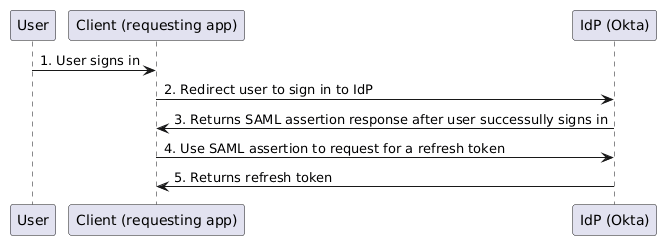
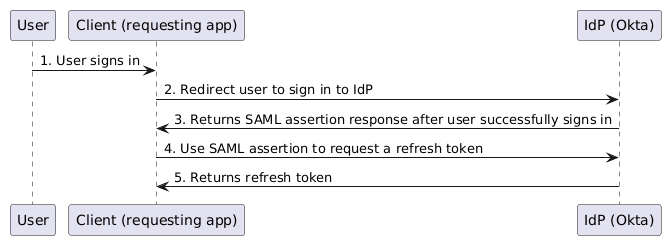
Add oidc content

diff --git a/packages/@okta/vuepress-site/docs/guides/xaa-request-token-ex/main/openidconnect/user-sso-details.md b/packages/@okta/vuepress-site/docs/guides/xaa-request-token-ex/main/openidconnect/user-sso-details.md
@@ -1,8 +1,8 @@
-In a SAML-based XAA flow, after the user is authenticated, it delegates the requesting app to interact with the IdP to obtain the refresh token necessary to perform the ID-JAG token exchange.
+In a OIDC-based XAA flow, after the user is authenticated, the IdP returns the ID token necessary to perform the ID-JAG token exchange.
 
 <div class="three-quarters">
 
-   ![XAA token exchange flow](/img/guides/xaa/xaa-saml-sso.png)
+   ![XAA token exchange flow](/img/guides/xaa/xaa-oidc-sso.png)
 
    </div>
     <!--
@@ -13,75 +13,24 @@ In a SAML-based XAA flow, after the user is authenticated, it delegates the requ
     participant OAS as "IdP (Okta)"
     User -> WebApp: 1. User signs in
     WebApp -> OAS: 2. Redirect user to sign in to IdP
-    OAS -> WebApp: 3. Returns SAML assertion response after user successully signs in
-    WebApp -> OAS: 4. Use SAML assertion to request for a refresh token
-    OAS -> WebApp: 5. Returns refresh token
+    OAS -> WebApp: 3. Returns ID token after user successfully signs in
     @enduml
     -->
 
-1. When a user signs into your federated app.
+1. User signs into your OIDC agentic app.
 
-1. Your app uses SAML and redirects the user to the IdP for SSO. As a prerequisite for this to happen, your app has to integrate and register with the IdP with SAML SSO. See [SAML concept](/docs/concepts/saml/) and [SAML app integrations](https://help.okta.com/okta_help.htm?id=ext-apps-about-saml) in the product documentation for details.
+1. Your agentic app redirects the user to the IdP for SSO. As a prerequisite for this to happen, your app has to integrate and register OIDC SSO with the IdP (Okta). See [Create OpenID Connect app integrations](https://help.okta.com/okta_help.htm?type=oie&id=ext_Apps_App_Integration_Wizard-oidc) in the product documentation for details.
 
-1. After the user is authenticated, the IdP returns the users's SAML assertion response (`<SAMLResponse>`) to your requesting app. Save this base64-encoded SAML response as `{SAMLReponse}` for the refresh token exchange.
+   > **Note:** If you want to also receive a refresh token, ensure that your agentic OIDC app integration is configured to return the refresh token in Okta (include the `offline_access` scope).
 
-1. Use the SAML assertion to exchange for a refresh token from your Okta org's [OAuth 2.0 token endpoint](https://developer.okta.com/docs/api/openapi/okta-oauth/oauth/orgas/token). This exchange follows the [OAuth 2.0 Token Exchange (RFC 8693)](https://datatracker.ietf.org/doc/html/rfc8693) specification.
-
-   Add code to your app to handle the token exchange:
-
-   1. Create a client assertion JWT (`{client_assertion}`) for the token exchange payload. This assertion is in `private_key_jwt` form and informs the IdP who the client is. Specify the following claims in your JWT payload:
-      [[style="list-style-type:lower-alpha"]]
-
-      | Claim    | Type    | Description                                                  |
-      |----------|---------|--------------------------------------------------------------|
-      | `aud`    | String  | Set to `https://{yourOktaDomain}/oauth2/v1/token` (Okta's token exchange endpoint). This is the full URL of the resource that you're trying to access using the JWT to authenticate.  |
-      | `iss`    | String  | Set to `{clientId}`. The AI agent's client ID, which is the issuer of the token. |
-      | `sub`    | String  | Set to `{clientId}`. The AI agent's client ID, which the subject of the token.  |
-      | `exp`    | Integer | The token expiration time in UNIX timestamp format. The request fails from this claim if the expiration time is more than one hour in the future or if the token is already expired. |
-      | `jti`    | String  | Optional. The unique token identifier. If you specify this parameter, the token can only be used once and, as a result, subsequent token requests don't succeed. |
-      | `iat`    | Integer | Optional. When the token was issued in UNIX timestamp format. If specified, it must be a time before the request is received. |
-
-      Sign your JWT with the private key from the AI agent (`{clientKey}`) in Okta. See [Build a JWT with a private key](https://developer.okta.com/docs/guides/build-self-signed-jwt/js/main/#build-a-jwt-with-a-private-key) for guidance on how to build your JWT with a private key.
-
-   1. Send a POST request to your Okta org's [OAuth 2.0 token endpoint](https://developer.okta.com/docs/api/openapi/okta-oauth/oauth/orgas/token) with the following parameters to obtain a refresh token.
-
-        | Parameter              | Type   | Description |
-        |------------------------|--------|-------------|
-        | `grant_type`           | String | Set to `urn:ietf:params:oauth:grant-type:token-exchange`. |
-        | `client_id`            | String | Optional. Set to `{clientId}`. This is client ID of the requesting app role, which is the AI agent in Okta. You don't need this value if you have the `client_assertion`. |
-        | `client_assertion_type`| String | Set to `urn:ietf:params:oauth:client-assertion-type:jwt-bearer`. |
-        | `client_assertion`     | String | Set to `{client_assertion}`, the signed JWT generated from the previous step. |
-        | `subject_token`        | String | Set to `{SAMLResponse}`, the base64-encoded SAML 2.0 assertion received from the IdP. |
-        | `subject_token_type`   | String | Set to `urn:ietf:params:oauth:token-type:saml2` |
-        | `requested_token_type` | String | Set to `urn:ietf:params:oauth:token-type:refresh_token` |
-        | `scope`                | String | Set to `openid offline_access` (`offline_access` is required to issue a refresh token). |
-
-        For example:
-
-        ```bash
-        POST /oauth2/v1/token HTTP/1.1
-        Host: {yourOktaDomain}
-        Content-Type: application/x-www-form-urlencoded
-
-        grant_type=urn:ietf:params:oauth:grant-type:token-exchange&
-        subject_token={SAMLResponse}&
-        subject_token_type=urn:ietf:params:oauth:token-type:saml2&
-        requested_token_type=urn:ietf:params:oauth:token-type:refresh_token&
-        scope=openid+offline_access&
-        client_assertion_type=urn:ietf:params:oauth:client-assertion-type:jwt-bearer&
-        client_assertion={client_assertion}
-        ```
-
-1. After the refresh token exchange request is sent, the IdP (Okta) responds with the requested token. For example:
+1. After the user is authenticated, the IdP returns the ID token to your requesting app. Save the ID token value as `{id_token}` for the ID-JAG token exchange.
 
 ```JSON
 {
-    "access_token": "eyJraWQ.....rm8EA4osYg",
-    "expires_in": 3600,
-    "issued_token_type": "urn:ietf:params:oauth:token-type:refresh_token",
-    "scope": "offline_access openid",
-    "token_type": "N_A",
+  "token_type": "Bearer",
+  "expires_in": 3600,
+  "access_token": "eyJraW...OYqhUp6g",
+  "scope": "openid",
+  "id_token": "eyJ...vc_JaEQCw"
 }
 ```
-
-The `access_token` property value contains the refresh token. The `issued_token_type` indicates what type of token is returned. Save the `access_token` value as the `{refresh_token}` variable to use in your token exchange for ID-JAG in the next step.

diff --git a/packages/@okta/vuepress-site/docs/guides/xaa-request-token-ex/main/index.md b/packages/@okta/vuepress-site/docs/guides/xaa-request-token-ex/main/index.md
@@ -16,18 +16,19 @@ Understand how to implement the XAA token exchange sequences necessary for a req
 
 * An agentic app that federates enterprise users through SAML 2.0 or OIDC, and assumes the requesting app role in the XAA flow
 * An Okta org used for Single Sign-On (SSO), such as an [Okta Integrator Free Plan org](https://developer.okta.com/signup)
-
-  You've registered your requesting app with SSO and XAA capabilities in your Okta org.
+  Register your requesting app with SSO and XAA capabilities in your Okta org.
   <StackSnippet snippet="see-need"/>
-
 
 ---
 
 ## Overview
 
-The [Identity Assertion JWT Authorization Grant](https://datatracker.ietf.org/doc/html/draft-ietf-oauth-identity-assertion-authz-grant) specification, which forms the basis for XAA, was originally designed for OpenID Connect (OIDC). By following this guide, you can also support XAA in SAML-based agentic apps without migrating your core authentication infrastructure to OIDC. Review the [XAA concept](/docs/concepts/xaa/) for more information.
+To secure resource access for AI agents acting on behalf of authenticated users through Cross App Access (XAA), your AI agent app must implement XAA token exchange. Under this mechanism, the token exchange sequence takes place following initial user authentication with the agentic app through an identity provider (IdP) Single Sign-On (SSO).
+Although the [Identity Assertion JWT Authorization Grant](https://datatracker.ietf.org/doc/html/draft-ietf-oauth-identity-assertion-authz-grant) specification, which forms the basis for XAA, was originally designed for OpenID Connect (OIDC), you can also support XAA in SAML-based agentic apps without migrating your core authentication infrastructure to OIDC.
 
-This guide focuses on the interactions required for the **Client (requesting app)** in the following XAA token exchange flow:
+Review the [XAA concept](/docs/concepts/xaa/) for more information.
+
+This guide focuses on the interactions required for the agentic app, which assumes the **Client (requesting app)** role in the following XAA token exchange flow:
 
 <div class="full">
 
@@ -63,7 +64,7 @@ The following sequence steps follow the XAA token exchange interactions required
 
 ### Variables used in the XAA token exchange
 
-You need to to pass configuration values from the Okta org and resource server to your requesting app at runtime to complete the XAA flow. The following table provides the variables you need in your requesting app.
+You need to pass configuration values from the Okta org and resource server to your requesting app at runtime to complete the XAA flow. The following table provides the variables that you need in your requesting app.
 
 <StackSnippet snippet="variables" />
 
@@ -81,7 +82,7 @@ Before the token exchange request, create a client assertion JWT (`{client_asser
 
 | Claim    | Type    | Description                                                  |
 |----------|---------|--------------------------------------------------------------|
-| `aud`    | String  | Set to `https://{yourOktaDomain}/oauth2/v1/token` (Okta's token exchange endpoint). This is the full URL of the resource that you're trying to access using the JWT to authenticate. |
+| `aud`    | String  | Set to `https://{yourOktaDomain}/oauth2/v1/token` (Okta token exchange endpoint). This is the full URL of the resource that you're trying to access using the JWT to authenticate. |
 | `iss`    | String  | Set to `{clientId}`. The AI agent's client ID, which is the issuer of the token. |
 | `sub`    | String  | Set to `{clientId}`. The AI agent's client ID, which the subject of the token.  |
 | `exp`    | Integer | The token expiration time in UNIX timestamp format. The request fails from this claim if the expiration time is more than one hour in the future or if the token is already expired. |
@@ -96,7 +97,7 @@ Sign your JWT with the client private key from the AI agent (`{clientKey}`) in O
 
 ### Exchange ID-JAG for access token
 
-Send the ID-JAG token to the resource authorization server for an access token. Your requesting app uses the `{resourceTokenUrl}` value to send the access token request. For authorization, the following examples used the base64-encoded `{resourceClientId}` and `{resourceClientSecret}` values. You need to use the authorization scheme supported by the resource server. These values need to be preconfigured in your app or passed in as a variable (see [Variables used in the XAA token exchange](#variables-used-in-the-xaa-token-exchange)).
+Send the ID-JAG token to the resource authorization server for an access token. Your requesting app uses the `{resourceTokenUrl}` value to send the access token request. For authorization, the following examples used the Base64-encoded `{resourceClientId}` and `{resourceClientSecret}` values. Use the authorization scheme supported by the resource server. These values need to be preconfigured in your app or passed in as a variable (see [Variables used in the XAA token exchange](#variables-used-in-the-xaa-token-exchange)).
 
 Access token request example:
 

diff --git a/packages/@okta/vuepress-site/docs/guides/xaa-request-token-ex/main/openidconnect/variables.md b/packages/@okta/vuepress-site/docs/guides/xaa-request-token-ex/main/openidconnect/variables.md
@@ -1,24 +1,23 @@
 | Variable | Description |
 |---|---|
 | `{yourOktaDomain}` | Your Okta org domain. For example, `integrator-1234567.okta.com`. |
-| `{clientId}` | The AI agent assumes the role of the client, so this is the AI agent's client ID. You can find this value in the AI agent's **Client registration** tab. For example, `wlpa0eiuaoCNrpoaE0g7`. |
-| `{clientKey}` | The agent assumes the role of the client, so this is the AI agent's client private key. You can find this value in the AI agent's **Client registration** tab.|
-| `{clientRefreshScopes}` | The refresh scopes for the SAML requesting app. For example, `openid offline_access`. |
-| `{SAMLReponse}` | The base64-encoded SAML assertion response from the IdP to the agentic requesting app after the user is authenticated. |
-| `{idJagScopes}` | The scopes for the ID-JAG token. These are the scopes that the AI agent wants to access in the resource server. For example, `my.xaa.a.read my.xaa.b.manage` |
+| `{clientId}` | The AI agent assumes the role of the client, so this is the AI agent's client ID. You can find this value in the AI agent's **Client registration** tab. The OIDC app instance that's bound to the AI agent share the same client ID. For example, `wlpa0eiuaoCNrpoaE0g7`. |
+| `{clientKey}` | The agent assumes the role of the client, so this is the AI agent's client private key. You can find this value in the AI agent's **Client registration** tab. The OIDC app instance that's bound to the AI agent share the same client private key. |
+| `{clientAuthScopes}` | Scopes required for the authorization request. For example, `openid`. |
+| `{id_token}` | The ID token returned from the IdP after the user successfully authenticates using OIDC. |
+| `{idJagScopes}` | The scopes for the ID-JAG token. These are the scopes that the AI agent wants to access in the resource server. For example, `my.xaa.a.read my.xaa.b.manage`. |
 | `{resourceAud}` | The resource's authorization server issuer URI. This is the resource audience where the client intends to send the ID-JAG. For example, `https://as.myresource.com`. |
 | `{resourceTokenUrl}` | The resource token URL. For example, `https://as.myresource.com/oauth/v1/token` |
 | `{resourceApiUrl}` | The resource server's API base URL. For example, `https://myresource.example.com/api/v1/` |
 | `{resourceClientId}` | The resource server's client ID. If you've registered the resource server in Okta, this is the resource app's client ID value. |
 | `{resourceClientSecret}` | The resource server's client secret. If you've registered the resource server in Okta, this is the resource app's client secret value. |
-| `{idPSignCert}` | The IdP signing certificate for the SAML requesting app in PEM format. |
 
 Some values are obtained after you register your agentic requesting app and resource server in your Okta org.
 
 1. See [Configure the AI agent (requesting app)](/docs/guides/xaa-agent-to-app/main/#configure-the-ai-agent-requesting-app) to register your agentic requesting app in Okta. At the end of this process, you have two objects and the following variables to pass to your app:
-    1. AI agent: `{clientId}` as the AI agent's client ID, `{clientKey}` as the AI agent's client private key. For AI Agents registering with an OIDC app, the AI agent's ID and the OIDC app's client ID are the same value.
+    1. AI agent: `{clientId}` as the AI agent's client ID, `{clientKey}` as the AI agent's client private key. For AI Agents registering with an OIDC app, the AI agent's ID and the OIDC app instance's client ID are the same value.
     [[style="list-style-type:lower-alpha"]]
-    1. The SAML app integration instance: `{samlMetadataUrl}` as the SAML assertion in XML, `{idPSignCert}` as the IdP's SAML signing certificates
+    1. The OIDC app integration instance: `{clientId}` as the client ID, `{clientKey}` as the client private key.
 1. See [Configure the resource app](/docs/guides/xaa-agent-to-app/main/#configure-the-resource-app) to register your resource server in Okta. At the end of this process, you have an app integration instance and the following variables to pass to your app:
     1. App integration instance : `{resourceAud}` as the resource audience, `{resourceTokenUrl}` as the resource token URL, and `{resourceApiUrl}` as the resource API URLs your AI agent wants to access.
     [[style="list-style-type:lower-alpha"]]

diff --git a/packages/@okta/vuepress-site/docs/guides/xaa-request-token-ex/main/saml2/variables.md b/packages/@okta/vuepress-site/docs/guides/xaa-request-token-ex/main/saml2/variables.md
@@ -5,20 +5,19 @@
 | `{clientKey}` | The agent assumes the role of the client, so this is the AI agent's client private key. You can find this value in the AI agent's **Client registration** tab.|
 | `{clientRefreshScopes}` | The refresh scopes for the SAML requesting app. For example, `openid offline_access`. |
 | `{SAMLReponse}` | The base64-encoded SAML assertion response from the IdP to the agentic requesting app after the user is authenticated. |
-| `{idJagScopes}` | The scopes for the ID-JAG token. These are the scopes that the AI agent wants to access in the resource server. For example, `my.xaa.a.read my.xaa.b.manage` |
+| `{idJagScopes}` | The scopes for the ID-JAG token. These are the scopes that the AI agent wants to access in the resource server. For example, `my.xaa.a.read my.xaa.b.manage`. |
 | `{resourceAud}` | The resource's authorization server issuer URI. This is the resource audience where the client intends to send the ID-JAG. For example, `https://as.myresource.com`. |
 | `{resourceTokenUrl}` | The resource token URL. For example, `https://as.myresource.com/oauth/v1/token` |
 | `{resourceApiUrl}` | The resource server's API base URL. For example, `https://myresource.example.com/api/v1/` |
 | `{resourceClientId}` | The resource server's client ID. If you've registered the resource server in Okta, this is the resource app's client ID value. |
 | `{resourceClientSecret}` | The resource server's client secret. If you've registered the resource server in Okta, this is the resource app's client secret value. |
-| `{idPSignCert}` | The IdP signing certificate for the SAML requesting app in PEM format. |
 
 Some values are obtained after you register your agentic requesting app and resource server in your Okta org.
 
 1. See [Configure the AI agent (requesting app)](/docs/guides/xaa-agent-to-app/main/#configure-the-ai-agent-requesting-app) to register your agentic requesting app in Okta. At the end of this process, you have two objects and the following variables to pass to your app:
-    1. AI agent: `{clientId}` as the AI agent's client ID, `{clientKey}` as the AI agent's client private key. For AI Agents registering with an OIDC app, the AI agent's ID and the OIDC app's client ID are the same value.
+    1. AI agent: `{clientId}` as the AI agent's client ID, `{clientKey}` as the AI agent's client private key.
     [[style="list-style-type:lower-alpha"]]
-    1. The SAML app integration instance: `{samlMetadataUrl}` as the SAML assertion in XML, `{idPSignCert}` as the IdP's SAML signing certificates
+    1. The SAML app integration instance
 1. See [Configure the resource app](/docs/guides/xaa-agent-to-app/main/#configure-the-resource-app) to register your resource server in Okta. At the end of this process, you have an app integration instance and the following variables to pass to your app:
     1. App integration instance : `{resourceAud}` as the resource audience, `{resourceTokenUrl}` as the resource token URL, and `{resourceApiUrl}` as the resource API URLs your AI agent wants to access.
     [[style="list-style-type:lower-alpha"]]

diff --git a/packages/@okta/vuepress-site/docs/guides/xaa-request-token-ex/main/openidconnect/xaa-flow-steps.md b/packages/@okta/vuepress-site/docs/guides/xaa-request-token-ex/main/openidconnect/xaa-flow-steps.md
@@ -1,15 +1,7 @@
-1. **[User SSO](#user-sso)**:
+1. **[User SSO](#user-sso)**: In a OIDC-based XAA flow, your requesting app acts on behalf of an authenticated user. The requesting app obtains the users's ID token after authentication.
 
-    In a SAML-based XAA flow, your requesting app acts on behalf of an authenticated user. Instead of exchanging an OIDC ID token, your app exchanges a SAML 2.0 assertion for an OAuth 2.0 refresh token, obtains an Identity Assertion JWT  Authorization Grant (ID-JAG) token from Okta, and then redeems that ID-JAG for an access token at the target resource's authorization server.
-
-      1. The user initiates sign in to your app
-      [[style="list-style-type:lower-alpha"]]
-      1. The app redirects the user to the IdP to SSO with SAML 2.0
-      1. After the user is authenticated, the IdP returns the SAML assertion response to your app.
-      1. Your app uses the SAML assertion to request for a refresh token from the IdP
-
-1. **Refresh token issued**: The IdP returns a refresh token.
-1. **[Token exchange for ID-JAG](#token-exchange-for-id-jag)**: To access a specific resource on behalf of the user, your app exchanges the refresh token to obtain an Identity Assertion JWT Authorization Grant (ID-JAG) token.
+1. **ID token issued**: The IdP returns a ID token.
+1. **[Token exchange for ID-JAG](#token-exchange-for-id-jag)**: To access a specific resource on behalf of the user, your app exchanges the ID token to obtain an Identity Assertion JWT Authorization Grant (ID-JAG) token.
 1. **ID-JAG token issued**: The IdP issues an ID-JAG token to the client if the client has a trusted connection to the resource server.
 1. **[Exchange ID-JAG for access token](#exchange-id-jag-for-access-token)**: Your app presents the ID-JAG token to the resource authorization server for an access token.
 1. **Resource access token issued**: The resource authorization server validates the ID-JAG and issues a short-lived, scoped access token.

diff --git a/packages/@okta/vuepress-site/docs/guides/xaa-request-token-ex/main/saml2/user-sso-details.md b/packages/@okta/vuepress-site/docs/guides/xaa-request-token-ex/main/saml2/user-sso-details.md
@@ -13,15 +13,15 @@ In a SAML-based XAA flow, after the user is authenticated, it delegates the requ
     participant OAS as "IdP (Okta)"
     User -> WebApp: 1. User signs in
     WebApp -> OAS: 2. Redirect user to sign in to IdP
-    OAS -> WebApp: 3. Returns SAML assertion response after user successully signs in
-    WebApp -> OAS: 4. Use SAML assertion to request for a refresh token
+    OAS -> WebApp: 3. Returns SAML assertion response after user successfully signs in
+    WebApp -> OAS: 4. Use SAML assertion to request a refresh token
     OAS -> WebApp: 5. Returns refresh token
     @enduml
     -->
 
 1. When a user signs into your federated app.
 
-1. Your app uses SAML and redirects the user to the IdP for SSO. As a prerequisite for this to happen, your app has to integrate and register with the IdP (Okta) as an SAML SSO integration. See [SAML concept](/docs/concepts/saml/) and [SAML app integrations](https://help.okta.com/okta_help.htm?id=ext-apps-about-saml) in the product documentation for details.
+1. Your app uses SAML and redirects the user to the IdP for SSO. As a prerequisite for this to happen, your app has to integrate and register SAML SSO with the IdP (Okta). See [SAML concept](/docs/concepts/saml/) and [SAML app integrations](https://help.okta.com/okta_help.htm?id=ext-apps-about-saml) in the product documentation for details.
 
 1. After the user is authenticated, the IdP returns the users's SAML assertion response (`<SAMLResponse>`) to your requesting app. Save this base64-encoded SAML response as `{SAMLReponse}` for the refresh token exchange.
 

diff --git a/packages/@okta/vuepress-site/docs/guides/xaa-request-token-ex/main/openidconnect/see-also.md b/packages/@okta/vuepress-site/docs/guides/xaa-request-token-ex/main/openidconnect/see-also.md
@@ -1,3 +1,2 @@
 * [Set up AI agent token exchange](https://developer.okta.com/docs/guides/ai-agent-token-exchange/agent-to-agent/main/): For the Okta for AI Agents token exchange guide
-* [Enable Your SAML Requesting App for Cross App Access](https://developer.okta.com/blog/2026/07/17/xaa-saml-requester#xaa-implementation-checklist-for-saml-federated-applications): July 2026 blog on enabling SAML requesting apps for XAA
-* [Enabling Cross App Access for SAML-Based Resource Apps](https://developer.okta.com/blog/2026/07/03/cross-app-access-saml): July 2026 blog on enabling SAML resource apps for XAA
+* [Build Secure Agent-to-App Connections with Cross App Access (XAA) Using OIDC](https://developer.okta.com/blog/2025/09/03/cross-app-access): September 2025 blog on building XAA AI agent-to-app connections using OIDC

diff --git a/packages/@okta/vuepress-site/docs/guides/xaa-request-token-ex/main/openidconnect/see-need.md b/packages/@okta/vuepress-site/docs/guides/xaa-request-token-ex/main/openidconnect/see-need.md
@@ -1,1 +1,1 @@
-See [Create SAML app integrations](https://help.okta.com/okta_help.htm?id=ext_Apps_App_Integration_Wizard-saml) and [Configure the requesting app](/docs/guides/xaa-agent-to-app/main/#configure-the-ai-agent-requesting-app).
+See [Create OpenID Connect app integrations](https://help.okta.com/okta_help.htm?type=oie&id=ext_Apps_App_Integration_Wizard-oidc) and [Configure the requesting app](/docs/guides/xaa-agent-to-app/main/#configure-the-ai-agent-requesting-app).
